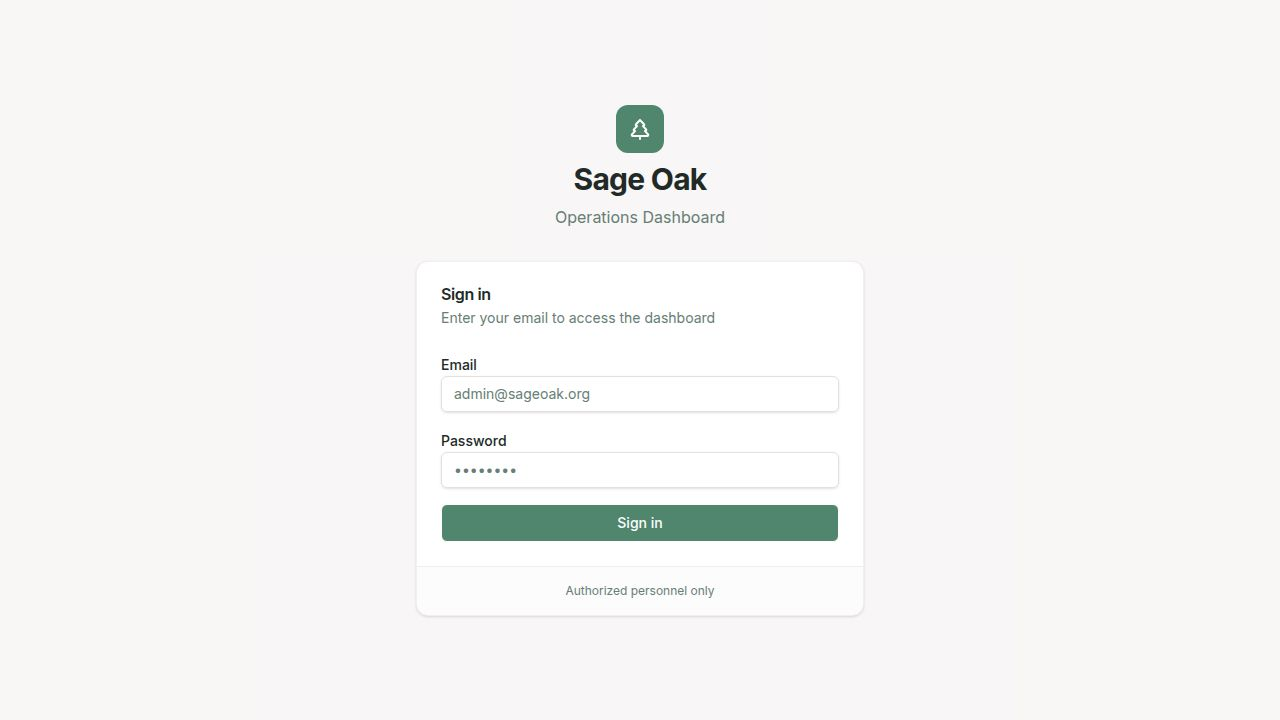
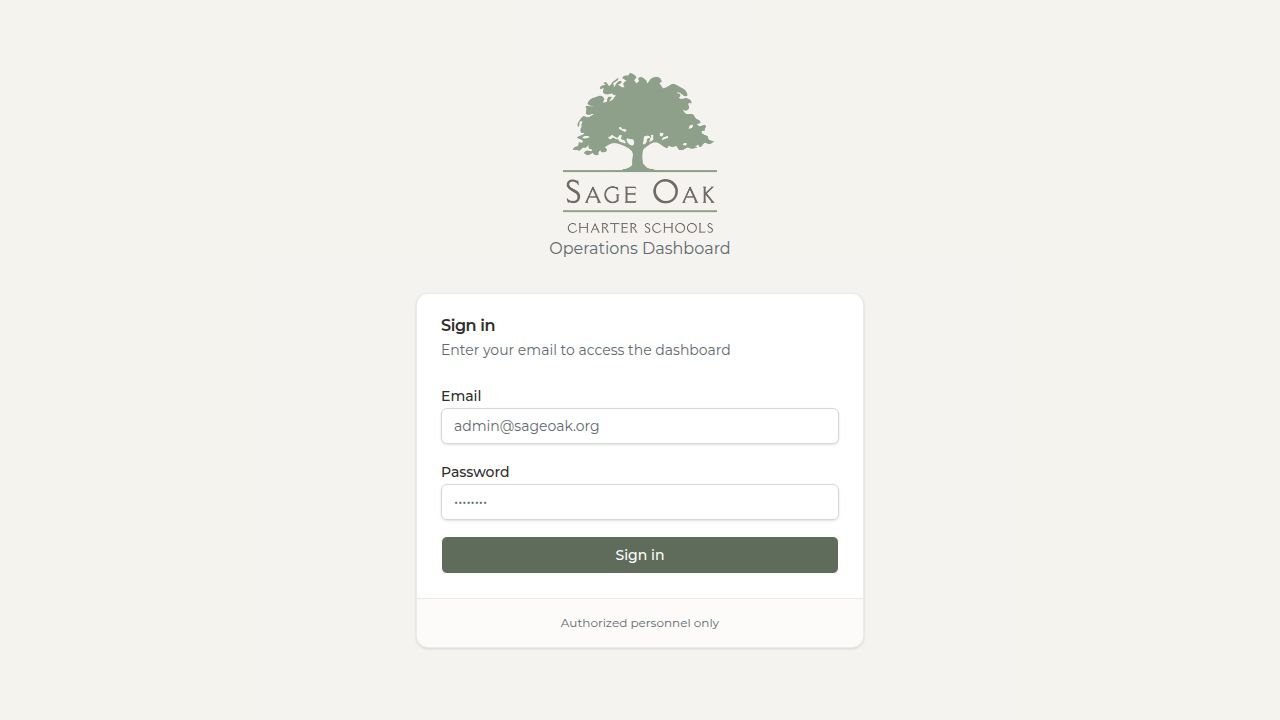
Task #167: Apply official Sage Oak 2025-26 branding
- Extracted brand assets from attached_assets/branding-main zip; added resized logos/favicon to artifacts/sage-oak-dashboard/public/ (primary logo, horizontal logo, green/white tree marks, favicon.png)
- index.html: swapped Inter for Montserrat (400-900), new favicon
- src/index.css: rebuilt light+dark theme palette on brand colors (deep green #687664 primary, sage #8d9e88, slate #374f59, navy #1c476c, gold accent, cream background); Montserrat as font-sans; heading letter-spacing
- Login.tsx: official primary logo replaces TreePine icon
- App.tsx: header defaults to green tree logo when no admin-uploaded logo
- SettingsPage.tsx: accent presets/default now all official brand hexes (architect review fix: removed non-brand #b45309)

Note: brand "Mont" font is commercial; Montserrat used as substitute.
Verified: typecheck, 350 api-server + 18 dashboard tests, all validation
workflows pass; headless browser screenshots of login/overview/settings on-brand.
Architect review addressed (accent presets); dark-mode logo swap deferred
since the app has no dark-mode toggle (proposed as follow-up #169).

Changed region(s): [[0.3438, 0.3972, 0.6562, 0.825], [0.4375, 0.0917, 0.5625, 0.3667], [0.4375, 0.8556, 0.5625, 0.8861]]

diff --git a/artifacts/sage-oak-dashboard/src/index.css b/artifacts/sage-oak-dashboard/src/index.css
@@ -67,56 +67,59 @@
 }
 
 :root {
-  --background: 40 20% 98%;
-  --foreground: 153 10% 15%;
-  --border: 40 10% 88%;
-  --input: 40 10% 88%;
-  --ring: 153 25% 42%;
+  /* Sage Oak 2025-26 brand palette:
+     sage #8d9e88, deep green #687664, slate #374f59, navy #1c476c,
+     gold #f2ce8a, cream #f2ede6, neutrals #9faea7 #6f7d82 #d8ded7 #e9e7df */
+  --background: 35 32% 96%;
+  --foreground: 15 4% 18%;
+  --border: 111 10% 84%;
+  --input: 111 10% 84%;
+  --ring: 107 8% 43%;
   
   --card: 0 0% 100%;
-  --card-foreground: 153 10% 15%;
-  --card-border: 40 10% 90%;
+  --card-foreground: 15 4% 18%;
+  --card-border: 111 10% 87%;
   
   --popover: 0 0% 100%;
-  --popover-foreground: 153 10% 15%;
-  --popover-border: 40 10% 90%;
+  --popover-foreground: 15 4% 18%;
+  --popover-border: 111 10% 87%;
   
-  --primary: 153 25% 42%;
+  --primary: 107 8% 39%;
   --primary-foreground: 0 0% 100%;
-  --primary-border: 153 25% 35%;
+  --primary-border: 107 8% 32%;
   
-  --secondary: 40 15% 90%;
-  --secondary-foreground: 153 20% 30%;
-  --secondary-border: 40 15% 80%;
+  --secondary: 111 10% 88%;
+  --secondary-foreground: 198 24% 28%;
+  --secondary-border: 111 10% 79%;
   
-  --muted: 40 10% 94%;
-  --muted-foreground: 153 10% 45%;
-  --muted-border: 40 10% 88%;
+  --muted: 48 19% 92%;
+  --muted-foreground: 196 8% 40%;
+  --muted-border: 48 15% 85%;
   
-  --accent: 40 20% 92%;
-  --accent-foreground: 153 25% 35%;
-  --accent-border: 40 20% 85%;
+  --accent: 39 55% 90%;
+  --accent-foreground: 198 24% 28%;
+  --accent-border: 39 45% 82%;
   
   --destructive: 0 70% 50%;
   --destructive-foreground: 0 0% 100%;
   --destructive-border: 0 70% 40%;
   
-  --chart-1: 153 25% 42%;
-  --chart-2: 40 30% 60%;
-  --chart-3: 180 20% 50%;
-  --chart-4: 25 30% 55%;
-  --chart-5: 210 20% 45%;
+  --chart-1: 107 12% 45%;
+  --chart-2: 208 59% 32%;
+  --chart-3: 39 70% 55%;
+  --chart-4: 198 24% 40%;
+  --chart-5: 106 10% 62%;
   
-  --sidebar: 40 20% 96%;
-  --sidebar-foreground: 153 15% 25%;
-  --sidebar-border: 40 15% 90%;
-  --sidebar-primary: 153 25% 42%;
+  --sidebar: 35 32% 94%;
+  --sidebar-foreground: 198 24% 24%;
+  --sidebar-border: 111 10% 86%;
+  --sidebar-primary: 107 8% 39%;
   --sidebar-primary-foreground: 0 0% 100%;
-  --sidebar-accent: 40 20% 90%;
-  --sidebar-accent-foreground: 153 25% 35%;
-  --sidebar-ring: 153 25% 42%;
+  --sidebar-accent: 48 19% 89%;
+  --sidebar-accent-foreground: 198 24% 28%;
+  --sidebar-ring: 107 8% 43%;
   
-  --app-font-sans: "Inter", sans-serif;
+  --app-font-sans: "Montserrat", sans-serif;
   --app-font-serif: Georgia, serif;
   --app-font-mono: Menlo, monospace;
   --radius: 0.5rem;
@@ -129,54 +132,54 @@
 }
 
 .dark {
-  --background: 153 10% 12%;
-  --foreground: 40 20% 96%;
-  --border: 153 10% 20%;
-  --input: 153 10% 20%;
-  --ring: 153 25% 42%;
+  --background: 198 24% 11%;
+  --foreground: 48 19% 92%;
+  --border: 198 18% 21%;
+  --input: 198 18% 21%;
+  --ring: 106 10% 58%;
   
-  --card: 153 10% 15%;
-  --card-foreground: 40 20% 96%;
-  --card-border: 153 10% 22%;
+  --card: 198 22% 14%;
+  --card-foreground: 48 19% 92%;
+  --card-border: 198 18% 22%;
   
-  --popover: 153 10% 15%;
-  --popover-foreground: 40 20% 96%;
-  --popover-border: 153 10% 22%;
+  --popover: 198 22% 14%;
+  --popover-foreground: 48 19% 92%;
+  --popover-border: 198 18% 22%;
   
-  --primary: 153 25% 42%;
+  --primary: 107 10% 42%;
   --primary-foreground: 0 0% 100%;
-  --primary-border: 153 25% 35%;
+  --primary-border: 107 10% 34%;
   
-  --secondary: 153 10% 25%;
-  --secondary-foreground: 40 20% 90%;
-  --secondary-border: 153 10% 30%;
+  --secondary: 198 18% 24%;
+  --secondary-foreground: 48 19% 90%;
+  --secondary-border: 198 18% 30%;
   
-  --muted: 153 10% 20%;
-  --muted-foreground: 40 10% 70%;
-  --muted-border: 153 10% 25%;
+  --muted: 198 18% 19%;
+  --muted-foreground: 152 8% 68%;
+  --muted-border: 198 18% 25%;
   
-  --accent: 153 15% 25%;
-  --accent-foreground: 40 20% 96%;
-  --accent-border: 153 15% 30%;
+  --accent: 198 20% 24%;
+  --accent-foreground: 39 80% 80%;
+  --accent-border: 198 20% 30%;
   
   --destructive: 0 60% 45%;
   --destructive-foreground: 0 0% 100%;
   --destructive-border: 0 60% 35%;
   
-  --chart-1: 153 30% 50%;
-  --chart-2: 40 40% 65%;
-  --chart-3: 180 30% 55%;
-  --chart-4: 25 40% 60%;
-  --chart-5: 210 30% 55%;
+  --chart-1: 106 14% 58%;
+  --chart-2: 208 50% 60%;
+  --chart-3: 39 75% 68%;
+  --chart-4: 198 24% 55%;
+  --chart-5: 152 10% 70%;
   
-  --sidebar: 153 10% 14%;
-  --sidebar-foreground: 40 20% 90%;
-  --sidebar-border: 153 10% 20%;
-  --sidebar-primary: 153 25% 42%;
+  --sidebar: 198 24% 13%;
+  --sidebar-foreground: 48 19% 90%;
+  --sidebar-border: 198 18% 21%;
+  --sidebar-primary: 107 10% 42%;
   --sidebar-primary-foreground: 0 0% 100%;
-  --sidebar-accent: 153 15% 22%;
-  --sidebar-accent-foreground: 40 20% 96%;
-  --sidebar-ring: 153 25% 42%;
+  --sidebar-accent: 198 20% 22%;
+  --sidebar-accent-foreground: 48 19% 92%;
+  --sidebar-ring: 106 10% 58%;
 }
 
 @layer base {
@@ -185,5 +188,8 @@
   }
   body {
     @apply font-sans antialiased bg-background text-foreground;
+  }
+  h1, h2, h3, h4, h5, h6 {
+    letter-spacing: -0.02em;
   }
 }

diff --git a/artifacts/sage-oak-dashboard/src/pages/Login.tsx b/artifacts/sage-oak-dashboard/src/pages/Login.tsx
@@ -9,7 +9,7 @@ import { Form, FormControl, FormField, FormItem, FormLabel, FormMessage } from "
 import { Input } from "@/components/ui/input";
 import { Button } from "@/components/ui/button";
 import { useToast } from "@/hooks/use-toast";
-import { TreePine } from "lucide-react";
+const logoUrl = `${import.meta.env.BASE_URL}sageoak-logo-primary.png`;
 
 const loginSchema = z.object({
   email: z.string().email("Invalid email address"),
@@ -93,10 +93,12 @@ export function Login() {
     <div className="min-h-[100dvh] flex flex-col items-center justify-center bg-muted/30 p-4">
       <div className="w-full max-w-md space-y-8">
         <div className="flex flex-col items-center text-center space-y-2">
-          <div className="h-12 w-12 bg-primary rounded-xl flex items-center justify-center mb-2">
-            <TreePine className="h-6 w-6 text-primary-foreground" />
-          </div>
-          <h1 className="text-3xl font-bold tracking-tight text-foreground">Sage Oak</h1>
+          <img
+            src={logoUrl}
+            alt="Sage Oak Charter Schools"
+            className="h-40 w-auto mb-1"
+            data-testid="img-login-logo"
+          />
           <p className="text-muted-foreground">Operations Dashboard</p>
         </div>
 

diff --git a/artifacts/sage-oak-dashboard/index.html b/artifacts/sage-oak-dashboard/index.html
@@ -12,10 +12,10 @@
     <meta name="twitter:card" content="summary_large_image" />
     <meta name="twitter:title" content="Sage Oak App Dashboard" />
     <meta name="twitter:description" content="Sage Oak App Dashboard — built on Replit. Update this description to reflect the app." />
-    <link rel="icon" type="image/svg+xml" href="/favicon.svg" />
+    <link rel="icon" type="image/png" href="favicon.png" />
     <link rel="preconnect" href="https://fonts.googleapis.com">
     <link rel="preconnect" href="https://fonts.gstatic.com" crossorigin>
-    <link href="https://fonts.googleapis.com/css2?family=Inter:wght@400;500;600;700&display=swap" rel="stylesheet">
+    <link href="https://fonts.googleapis.com/css2?family=Montserrat:wght@400;500;600;700;900&display=swap" rel="stylesheet">
   </head>
   <body>
     <div id="root"></div>

diff --git a/artifacts/sage-oak-dashboard/src/pages/SettingsPage.tsx b/artifacts/sage-oak-dashboard/src/pages/SettingsPage.tsx
@@ -294,7 +294,7 @@ function SyncScheduleCard({ settings }: { settings: AppSettings }) {
   );
 }
 
-const ACCENT_PRESETS = ["#4a7c67", "#2563eb", "#7c3aed", "#b45309", "#be123c"];
+const ACCENT_PRESETS = ["#687664", "#8d9e88", "#374f59", "#1c476c"];
 
 function BrandingCard({ settings }: { settings: AppSettings }) {
   const [appName, setAppName] = useState(settings.branding.appName);
@@ -388,7 +388,7 @@ function BrandingCard({ settings }: { settings: AppSettings }) {
             ))}
             <input
               type="color"
-              value={accentColor ?? "#4a7c67"}
+              value={accentColor ?? "#687664"}
               onChange={(e) => setAccentColor(e.target.value)}
               className="h-7 w-10 cursor-pointer rounded border border-border bg-transparent"
               aria-label="Custom accent color"

diff --git a/artifacts/sage-oak-dashboard/src/App.tsx b/artifacts/sage-oak-dashboard/src/App.tsx
@@ -158,14 +158,12 @@ function Layout({ children }: { children: React.ReactNode }) {
               onClick={() => setLocation("/")}
               data-testid="text-app-name"
             >
-              {logoDataUrl && (
-                <img
-                  src={logoDataUrl}
-                  alt=""
-                  className="h-7 w-7 rounded object-contain"
-                  data-testid="img-app-logo"
-                />
-              )}
+              <img
+                src={logoDataUrl ?? `${import.meta.env.BASE_URL}sageoak-tree-green.png`}
+                alt=""
+                className="h-8 w-auto rounded object-contain"
+                data-testid="img-app-logo"
+              />
               {appName}
             </h1>
             <nav className="flex items-center space-x-1">
